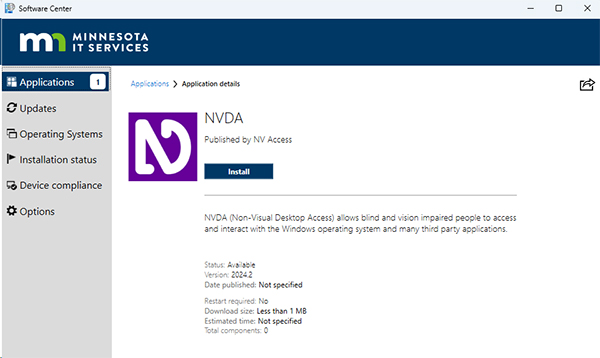
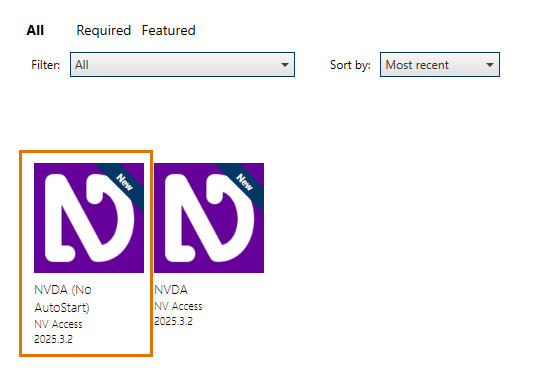
updating NVDA

diff --git a/testing-environment.md b/testing-environment.md
@@ -37,11 +37,11 @@ Steps to how to test with a screen reader can be found on the [How-to Test Scree
 
 1. _Go to_ the **_Start_** menu and open the **_Software Center_** application.
 2. From the Applications window, _search_ for **_NVDA_**.
-3. _Select_ the **_Install_** button.
+3. _Select_NVDA (No AutoStart) .
     <example>
         <img src="/assets/images/testing-tools/nvda-software-center.jpg" alt="Screenshot showing steps 2 and 3">
     </example>
-**Note:** To complete the installation, you must submit a Service Hub work request to complete the installation. Installation requires admin access to complete.
+
 
 #### **Launching NVDA**
 
